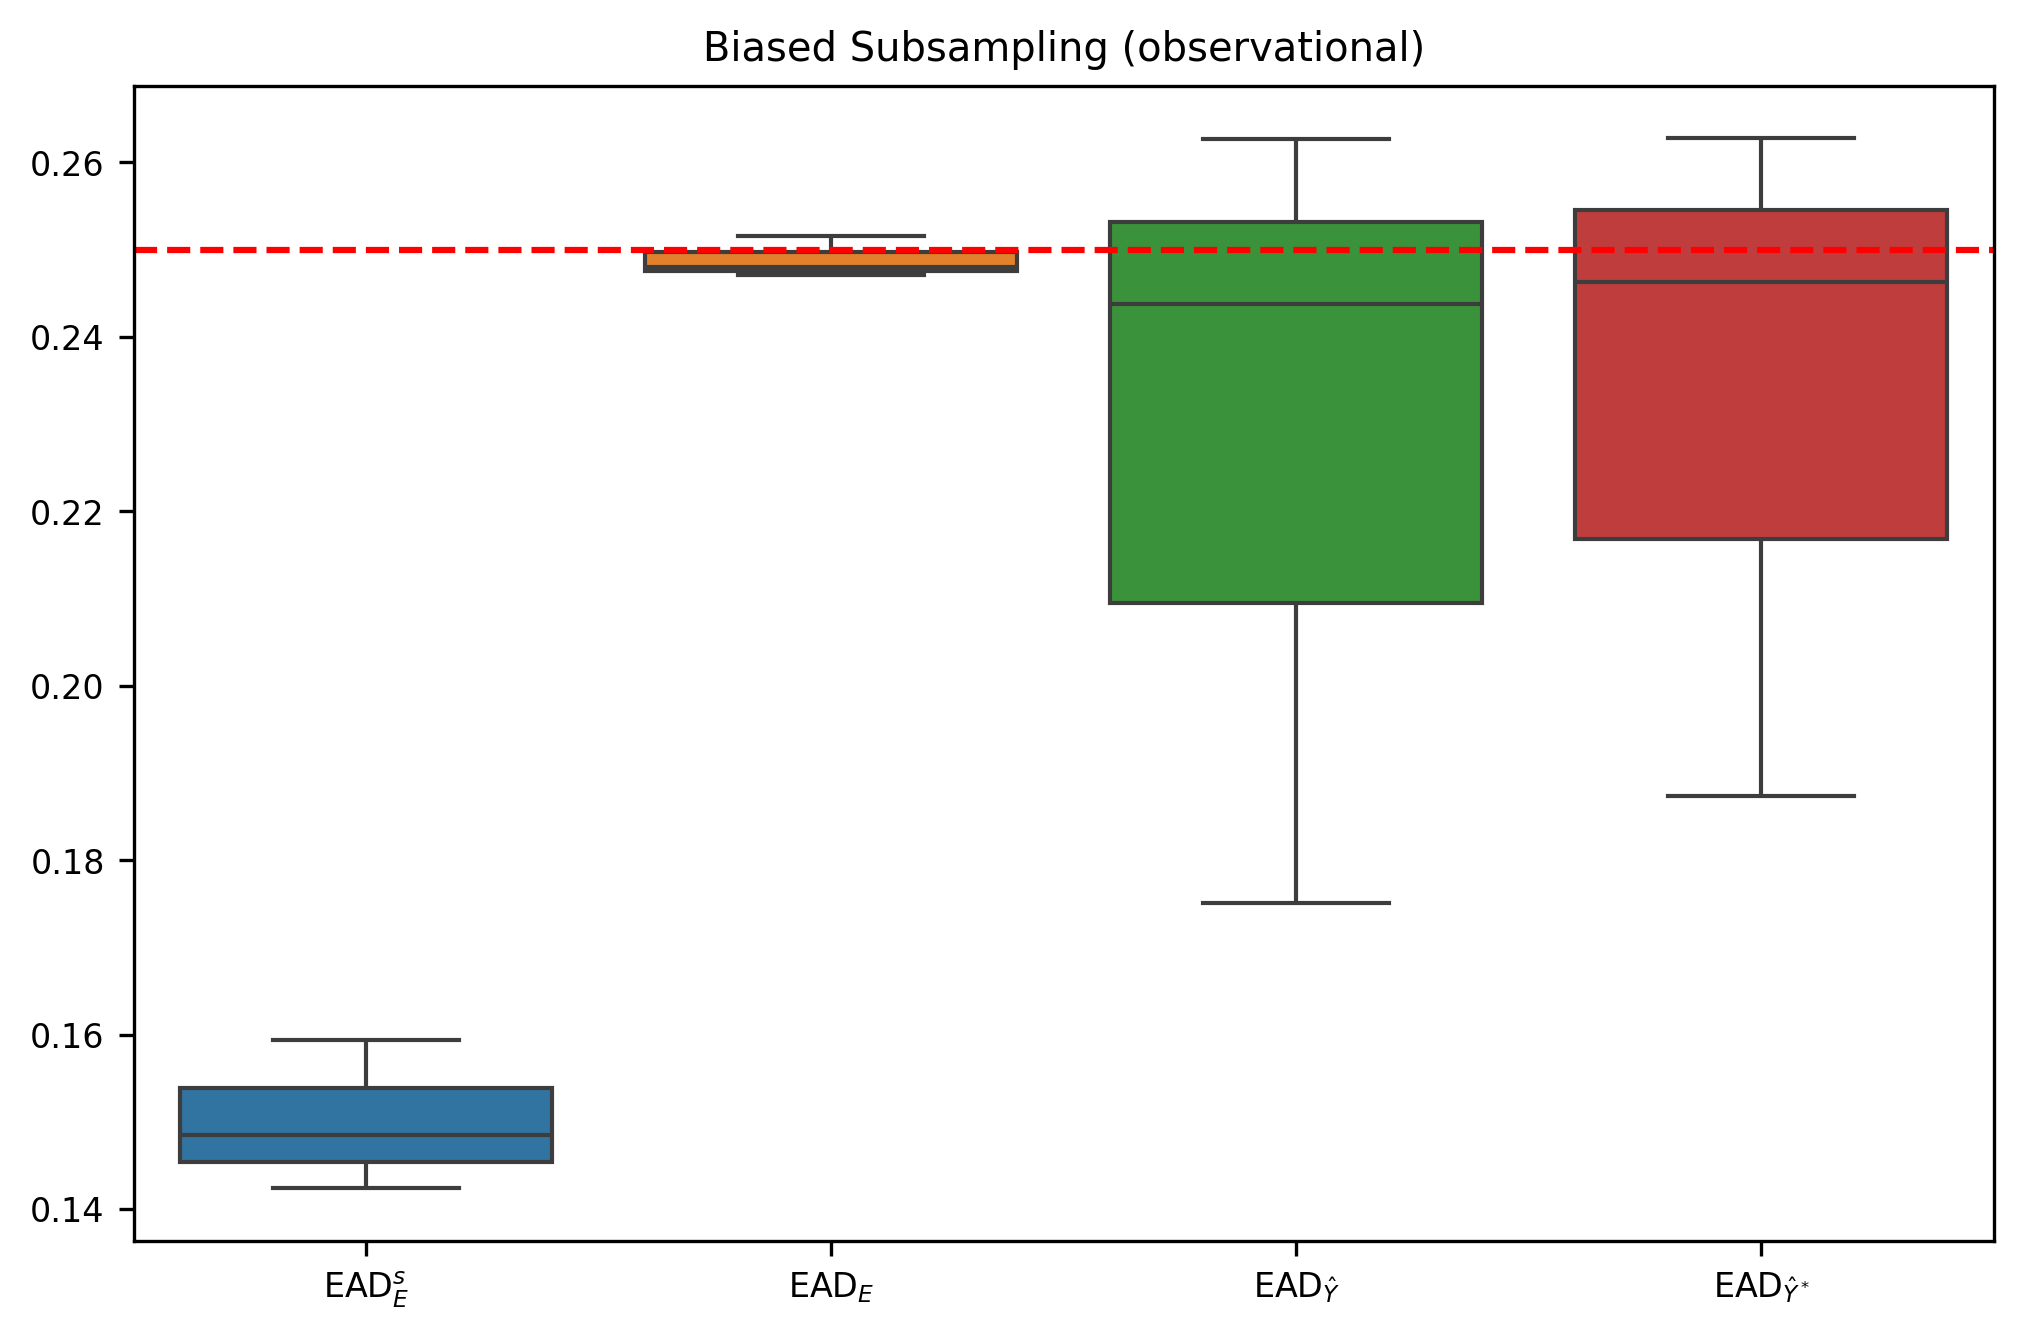
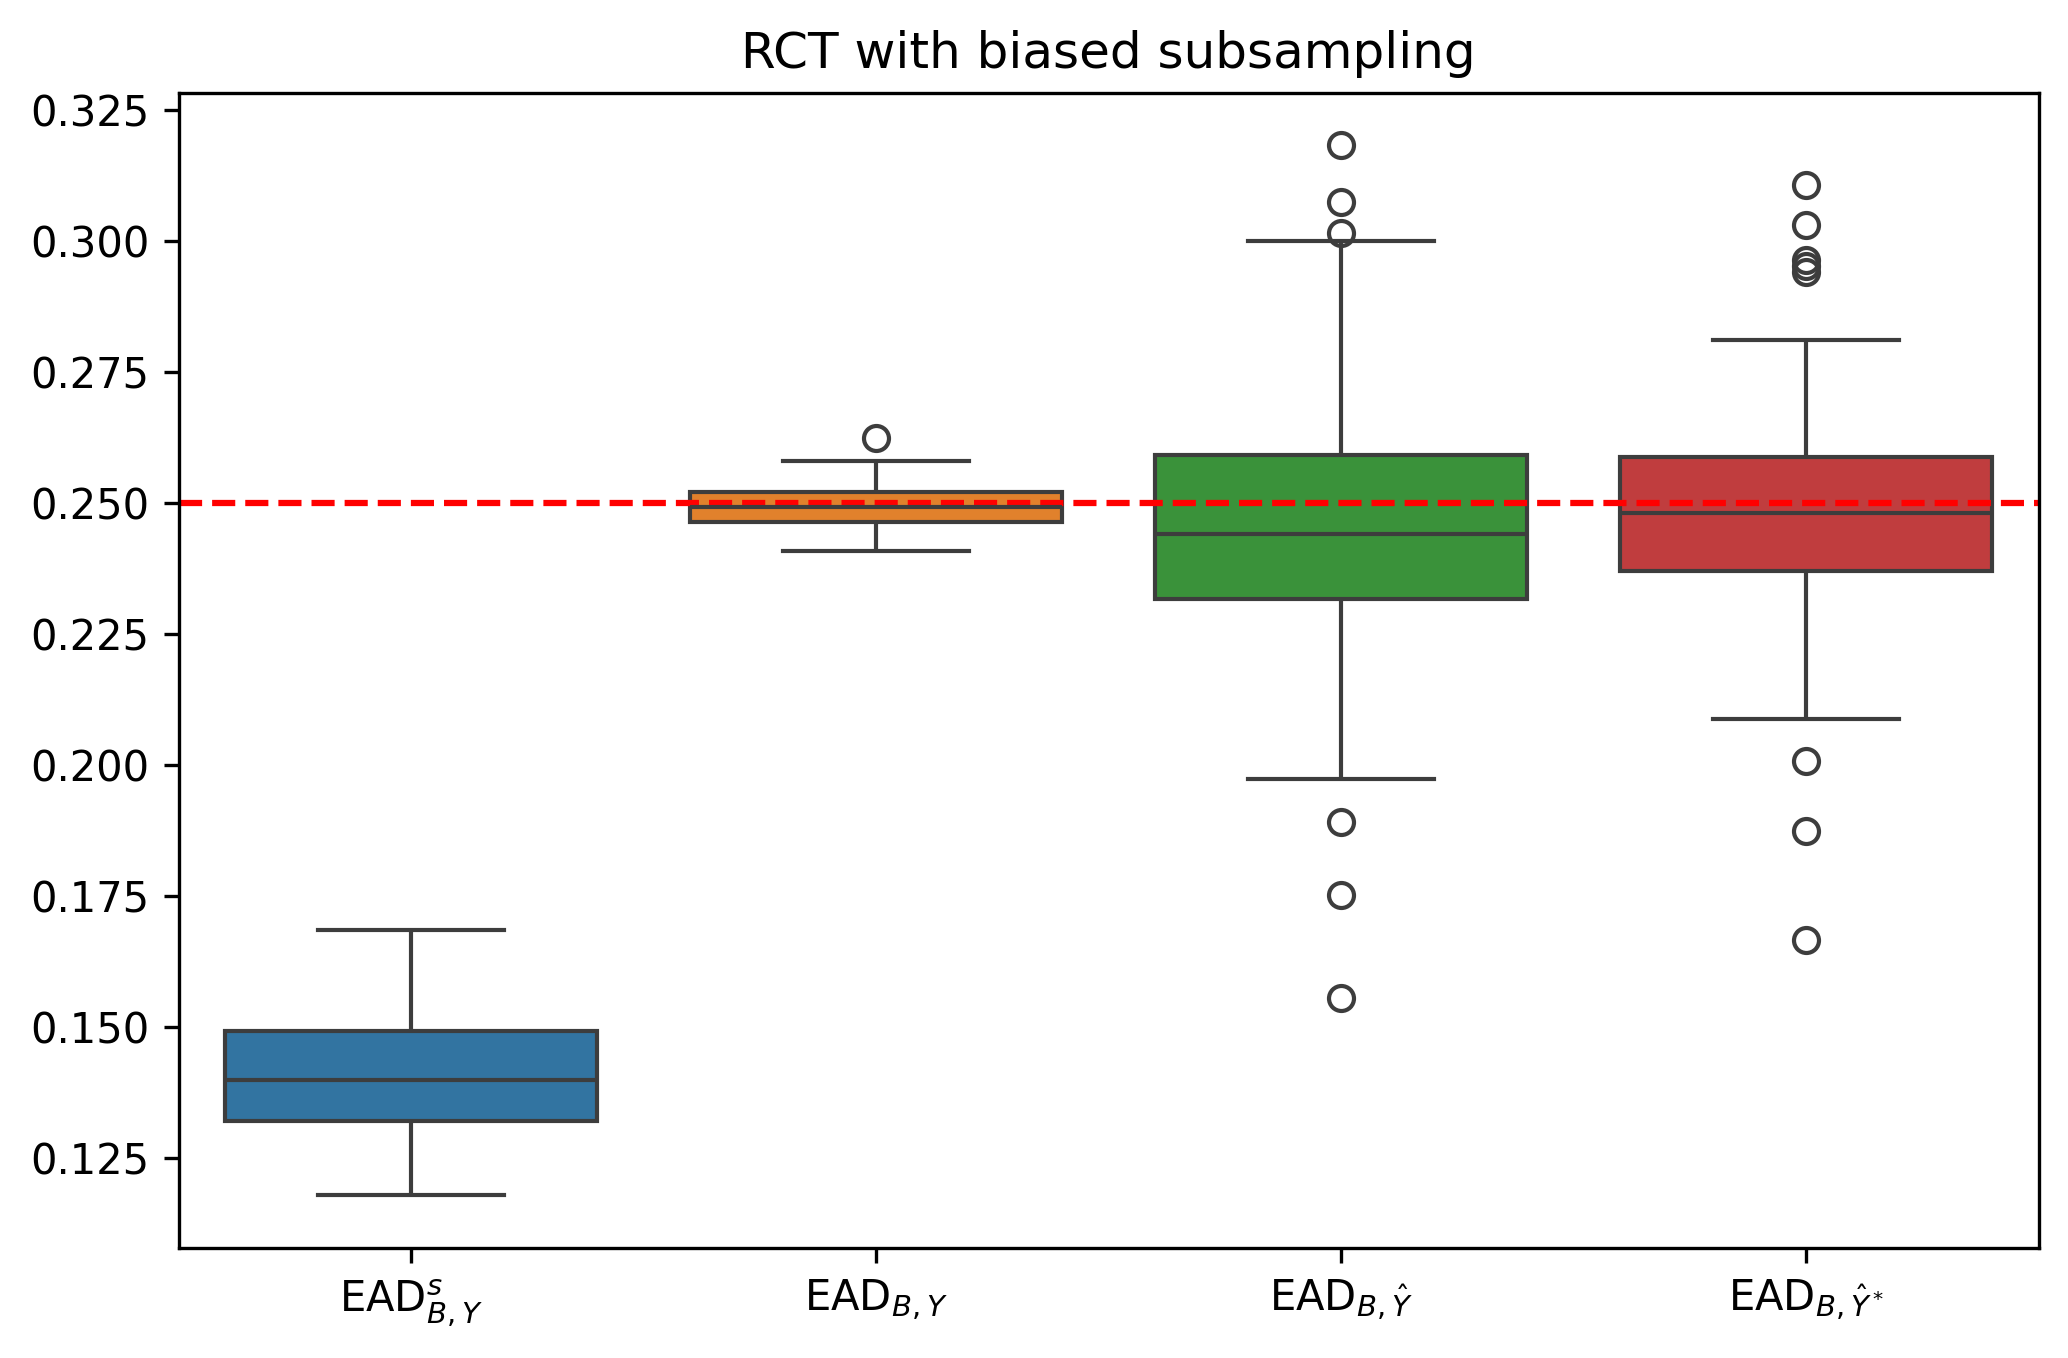
update results

diff --git a/src/visualize.py b/src/visualize.py
@@ -39,20 +39,15 @@ def boxplot_ead(results, subsampling, save=False, path='./results/CausalMNIST/')
         save: bool
         path: str
     '''
-    EAD_s = results[results['dataset'] == 'train']['EAD'].rename(r'EAD$_E^s$')
-    EAD_all = results[results['dataset'] == 'all']['EAD'].rename(r'EAD$_E$')
-    EAD_prob = results[results['dataset'] == 'all']['EAD_prob'].rename(r'EAD$_{\hat{Y}}$')
-    EAD_binary = results[results['dataset'] == 'all']['EAD_binary'].rename(r'EAD$_{\hat{Y}^*}$')
+    EAD_s = results[results['dataset'] == 'train']['EAD'].rename(r'EAD$_{B,Y}^s$')
+    EAD_all = results[results['dataset'] == 'all']['EAD'].rename(r'EAD$_{B,Y}$')
+    EAD_prob = results[results['dataset'] == 'all']['EAD_prob'].rename(r'EAD$_{B,\hat{Y}}$')
+    EAD_binary = results[results['dataset'] == 'all']['EAD_binary'].rename(r'EAD$_{B,\hat{Y}^*}$')
 
     plt.figure(figsize=(8, 5))
     sns.boxplot(data=[EAD_s, EAD_all, EAD_prob, EAD_binary])
     plt.axhline(y=0.25, color='r', linestyle='--')
-    if subsampling == "random":
-        plt.title('Random Subsampling (RCT)')
-    elif subsampling == "biased":    
-        plt.title('Biased Subsampling (observational)')
-    else:
-        raise ValueError('Subsampling must be "random" or "biased"')
+    plt.title(f'RCT with {subsampling} subsampling')
     if save:
         plt.savefig(path + f'{subsampling}/boxplot_ead.png', dpi=300, bbox_inches='tight')
     else:
